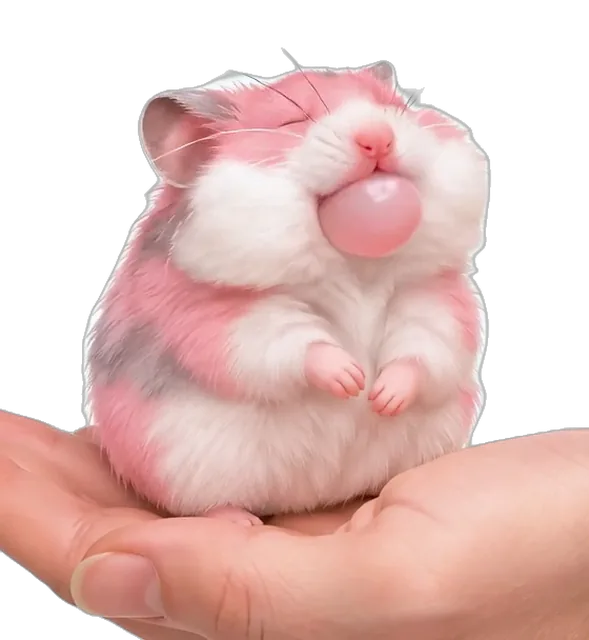
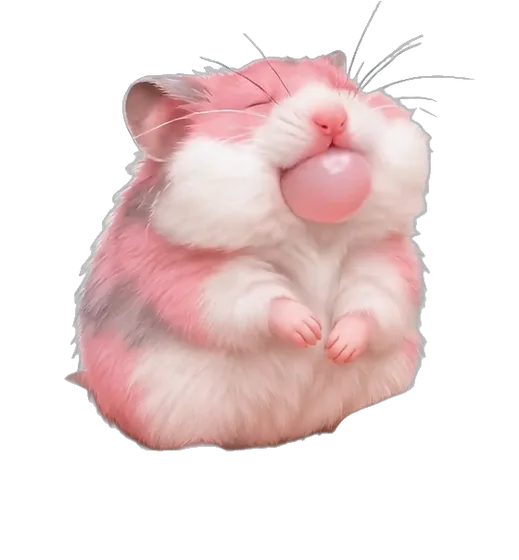
Biscuit without the hand: he sits on the little table, like the Admiral
Claude-Session: https://claude.ai/code/session_01PiQbiDdHzkNFQqS3tJ9L5K

diff --git a/js/hamster.js b/js/hamster.js
@@ -71,8 +71,8 @@
       return [{ q: T('Biscuit is awake and looking at you, whiskers going.', 'بسكوت صاحي ويطالعك، وشواربه تتحرك.'), menu: [
         { t: T('Give him some seeds', '{تعطيه|تعطينه} بذور'), then: [N1('He takes each seed in both hands, turns it, and pushes it into his cheek. Then the next. Then the next. He is now mostly cheek.', 'ياخذ كل بذرة بيدينه الثنتين، ويلفها، ويدفها في خده. وبعدين اللي بعدها. واللي بعدها. والحين أغلبه خدود.'), st => care(st)] },
         { t: T('Change his water', '{تغير|تغيرين} مويته'), then: [N1('Fresh water in the little bottle. He comes over at once and drinks with tiny, serious clicks.', 'موية جديدة في القارورة الصغيرة. يجي على طول ويشرب بطقطقات صغيرة وجدية.'), st => care(st)] },
-        { t: T('Hold him', '{تمسكه|تمسكينه} بيدك'), then: [{ mini: 'biscuit', then: (r, st) => [N1(...(r
-          ? ['He is asleep in your hand, warm and weighing nothing, his heart going like a little clock. You stay very still for a long time.', 'نام في كفك، دافي وما له وزن، وقلبه يدق مثل ساعة صغيرة. {وتجلس|وتجلسين} بدون حركة وقت طويل.']
+        { t: T('Take him out and play', '{تطلعه|تطلعينه} {وتلعب|وتلعبين} معه'), then: [{ mini: 'biscuit', then: (r, st) => [N1(...(r
+          ? ['He falls asleep right there on the little table, a warm pink ball, his sides going up and down very fast. You don\'t move for a long time.', 'نام مكانه على الطاولة الصغيرة، كورة وردية دافية، وجنبه يطلع وينزل بسرعة. وما {تتحرك|تتحركين} وقت طويل.']
           : ['You put him back in his bedding. He starts building a nest out of it at once, very busy, very offended.', '{ترجعه|ترجعينه} لنشارته. ويبدأ يبني عش على طول، مشغول مرة، وزعلان مرة.']))] }, st => care(st)] },
         { t: T('Let him sleep', '{خله|خليه} ينام'), then: [] }
       ] }];
@@ -85,8 +85,8 @@
     return [{ show: [{ id: 'margaret', e: TELLS[n - 1][0].e }] }].concat(TELLS[n - 1]);
   }
 
-  /* ---------- holding him (frames from the user's video, img/fx/biscuit/00-25) ----------
-     0-3 he sniffs your palm; tap = a seed: 4-15 he stuffs it in his cheek; stroke his back
+  /* ---------- playing with him on the little table (frames from the user's video, img/fx/biscuit/00-25) ----------
+     0-3 he sniffs about; tap = a seed: 4-15 he stuffs it in his cheek; stroke his back
      slowly and he gets sleepy: 16-25 his eyes close. Too fast and he freezes. */
   GAME.MINI.biscuit = function (panel, done) {
     panel.innerHTML = '';
@@ -122,7 +122,7 @@
         if (cur < 16) return show(16);
         if (cur < t) return show(cur + 1);
         if (cur > t) return show(cur - 1);
-        if (t >= 25 && !won) { won = true; alt.remove(); hint(T('He\'s asleep in your hand.', 'نام في كفك.')); setTimeout(() => finish(1), 1600); }
+        if (t >= 25 && !won) { won = true; alt.remove(); hint(T('He\'s asleep.', 'نام.')); setTimeout(() => finish(1), 1600); }
         return;
       }
       if (cur > 3 && cur < 16) return show(cur === 15 ? 0 : cur);   /* cheeks full: rest on the last frame, then back */

diff --git a/css/game.css b/css/game.css
@@ -1347,5 +1347,6 @@ html[lang=ar] .ho-film .ho-hold{font-family:var(--f-ar-ui)}
 .ho-pet .pet-sub .cp-hint{font-size:14px;opacity:1}
 .ho-pet .cp-skip{position:absolute;top:10px;inset-inline-end:10px;z-index:2}
 .ho-pet.out{opacity:0;transition:opacity .25s}
-/* holding Biscuit (js/hamster.js): his frames include your hand, coming up from the bottom */
-.ho-bis .pet-body{bottom:-2%;height:96%}
+/* playing with Biscuit (js/hamster.js): on the little table in the sunroom, like the Admiral */
+.ho-bis .pet-body{bottom:4%;height:78%}
+.ho-bis .pet-body::after{content:'';position:absolute;left:18%;right:18%;bottom:1%;height:7%;border-radius:50%;background:radial-gradient(closest-side,rgba(0,0,0,.45),transparent);z-index:-1}
